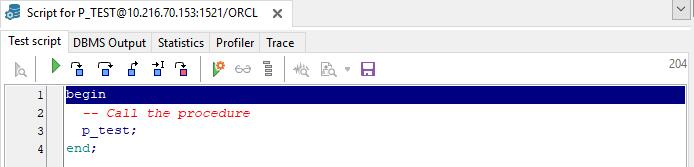
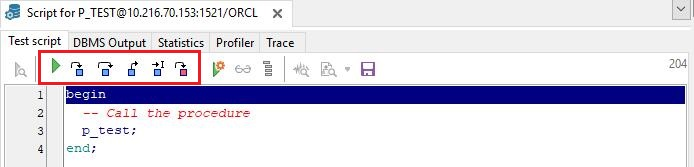
sp

Changed region(s): [[0.0303, 0.2994, 0.3026, 0.5389], [0.2723, 0.6587, 0.3026, 0.6886], [0.2118, 0.6587, 0.2421, 0.6886]]

diff --git a/_posts/2018-05-31-oracle-sp.md b/_posts/2018-05-31-oracle-sp.md
@@ -150,6 +150,14 @@ end;
 
 ![sql](https://ricebai.github.io/img/posts/oracle-sp/sql_t.jpg)
 
-点击 ***放大镜箭头*** 启动，`DBMS Output` 中可以看到输出结果（只有在存储过程中有 dbms_output.put_line 才行）。
+点击 ***放大镜箭头*** 运行 Test。
 
-![sql](https://ricebai.github.io/img/posts/oracle-sp/sql_b.jpg)
+![sql](https://ricebai.github.io/img/posts/oracle-sp/sql_1.jpg)
+
+点击后面的操作按钮，可以逐步调试。
+
+![sql](https://ricebai.github.io/img/posts/oracle-sp/sql_2.jpg)
+
+`DBMS Output` 中可以看到输出结果（只有在存储过程中有 dbms_output.put_line 才行）。
+
+![sql](https://ricebai.github.io/img/posts/oracle-sp/sql_3.jpg)
